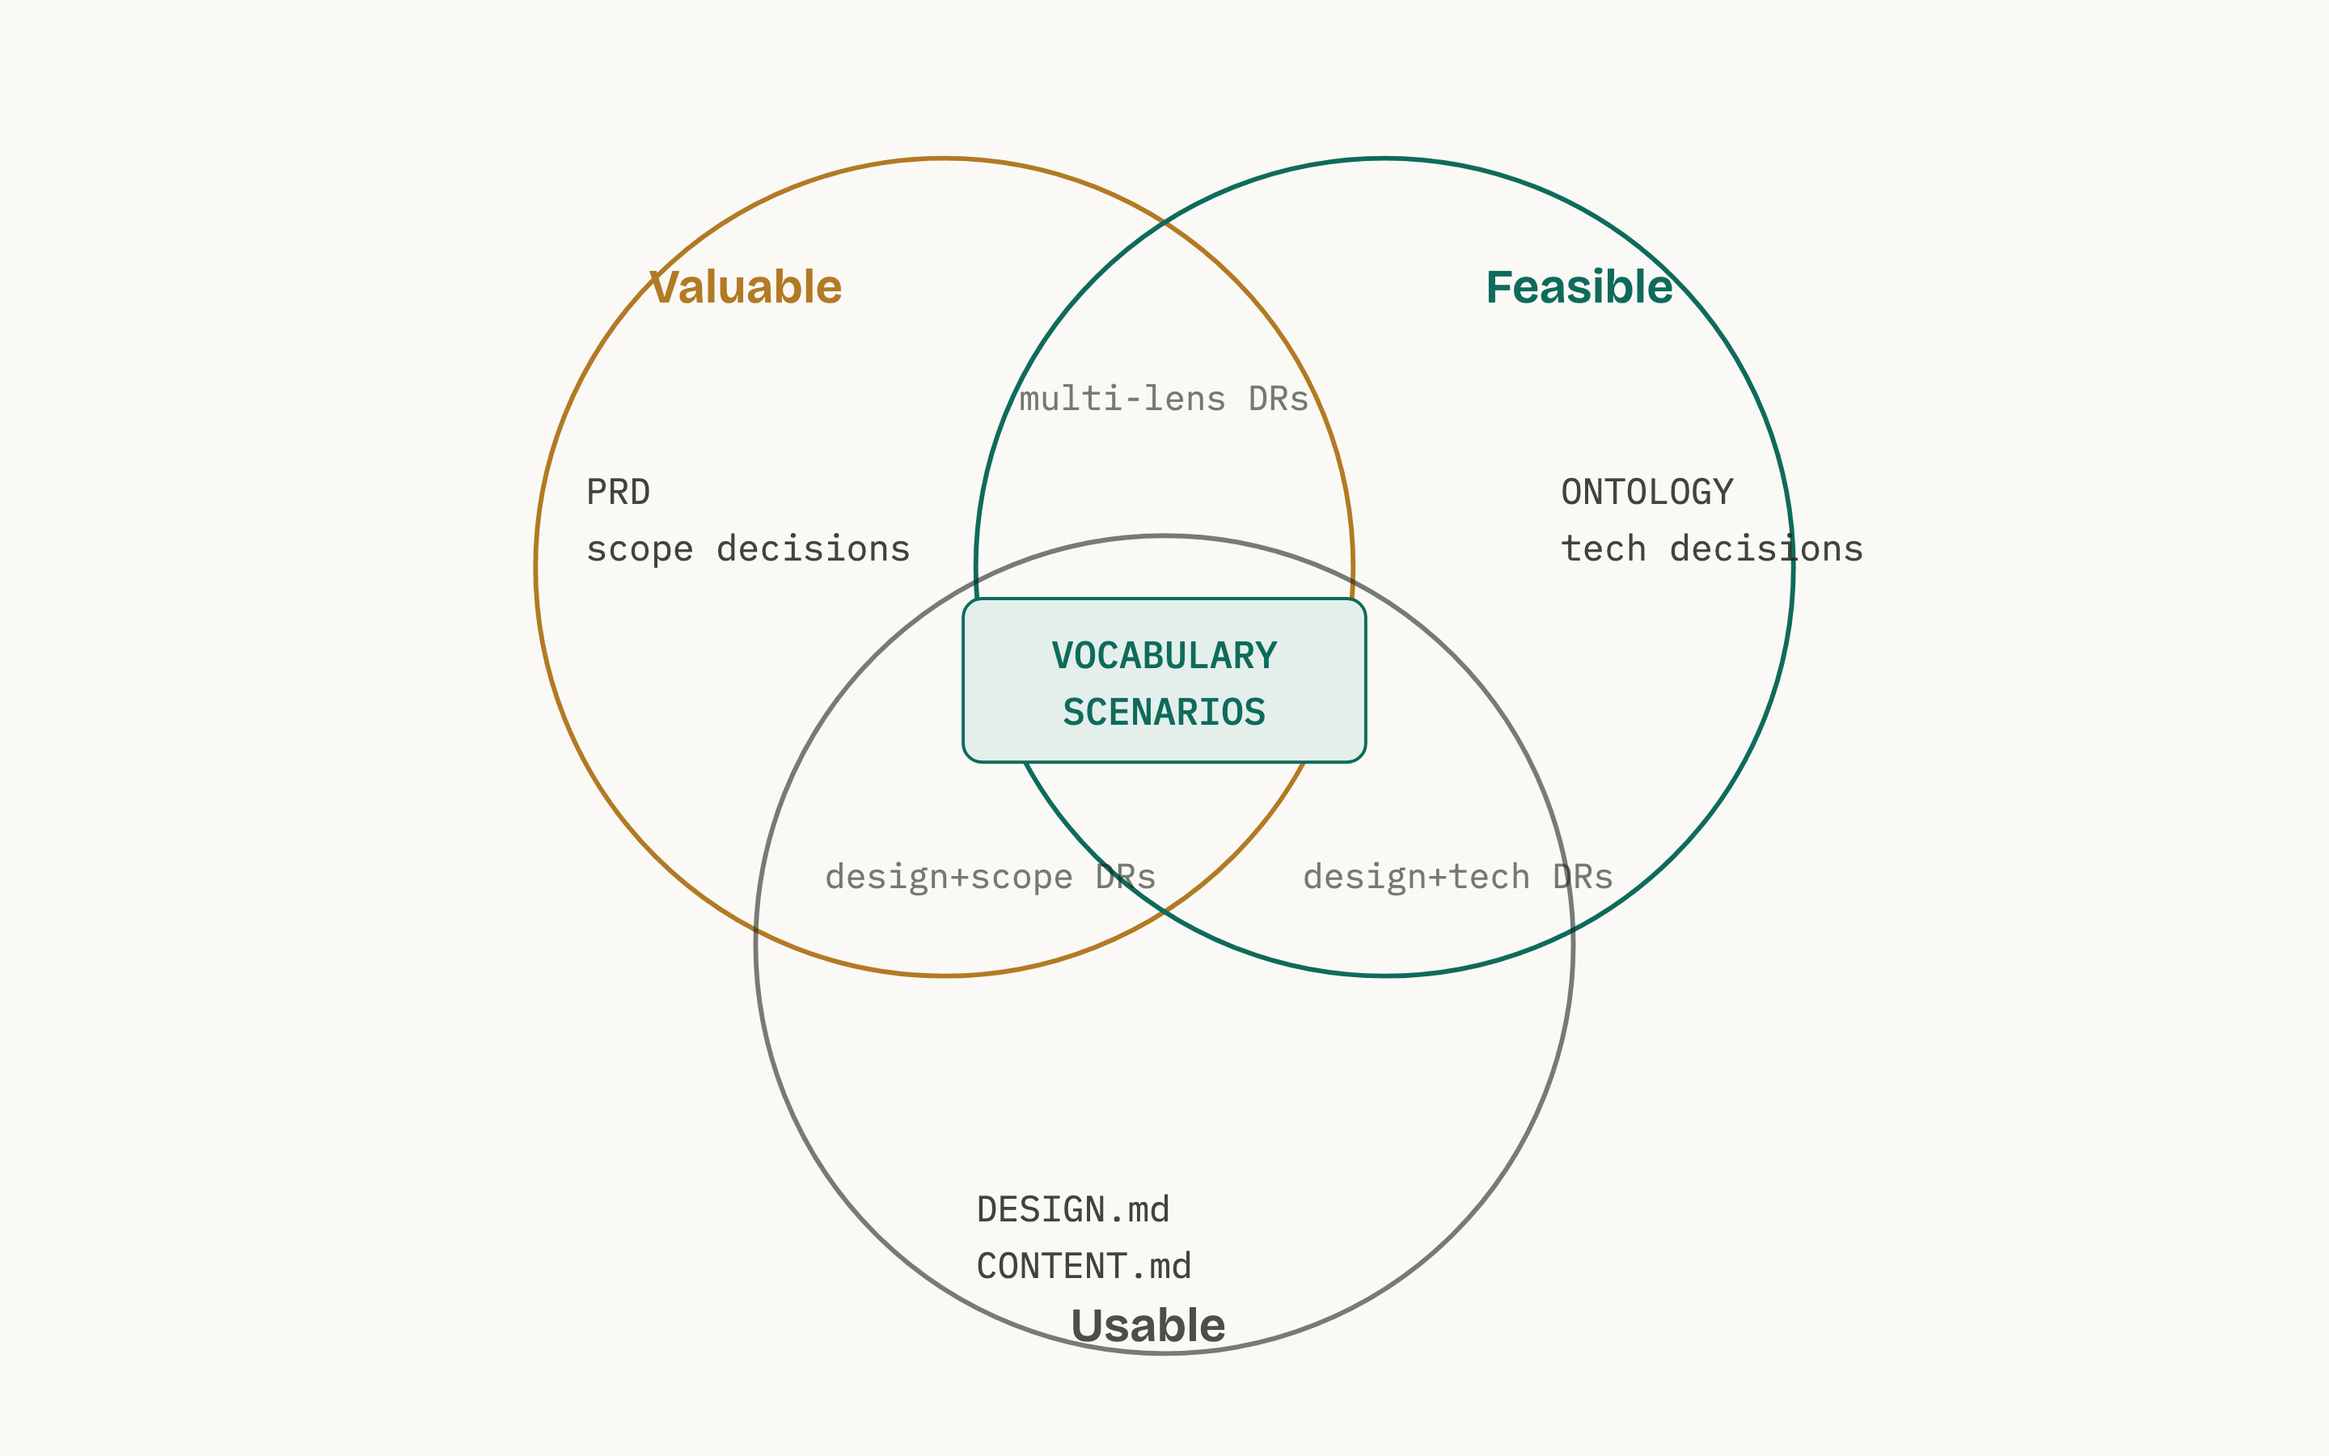
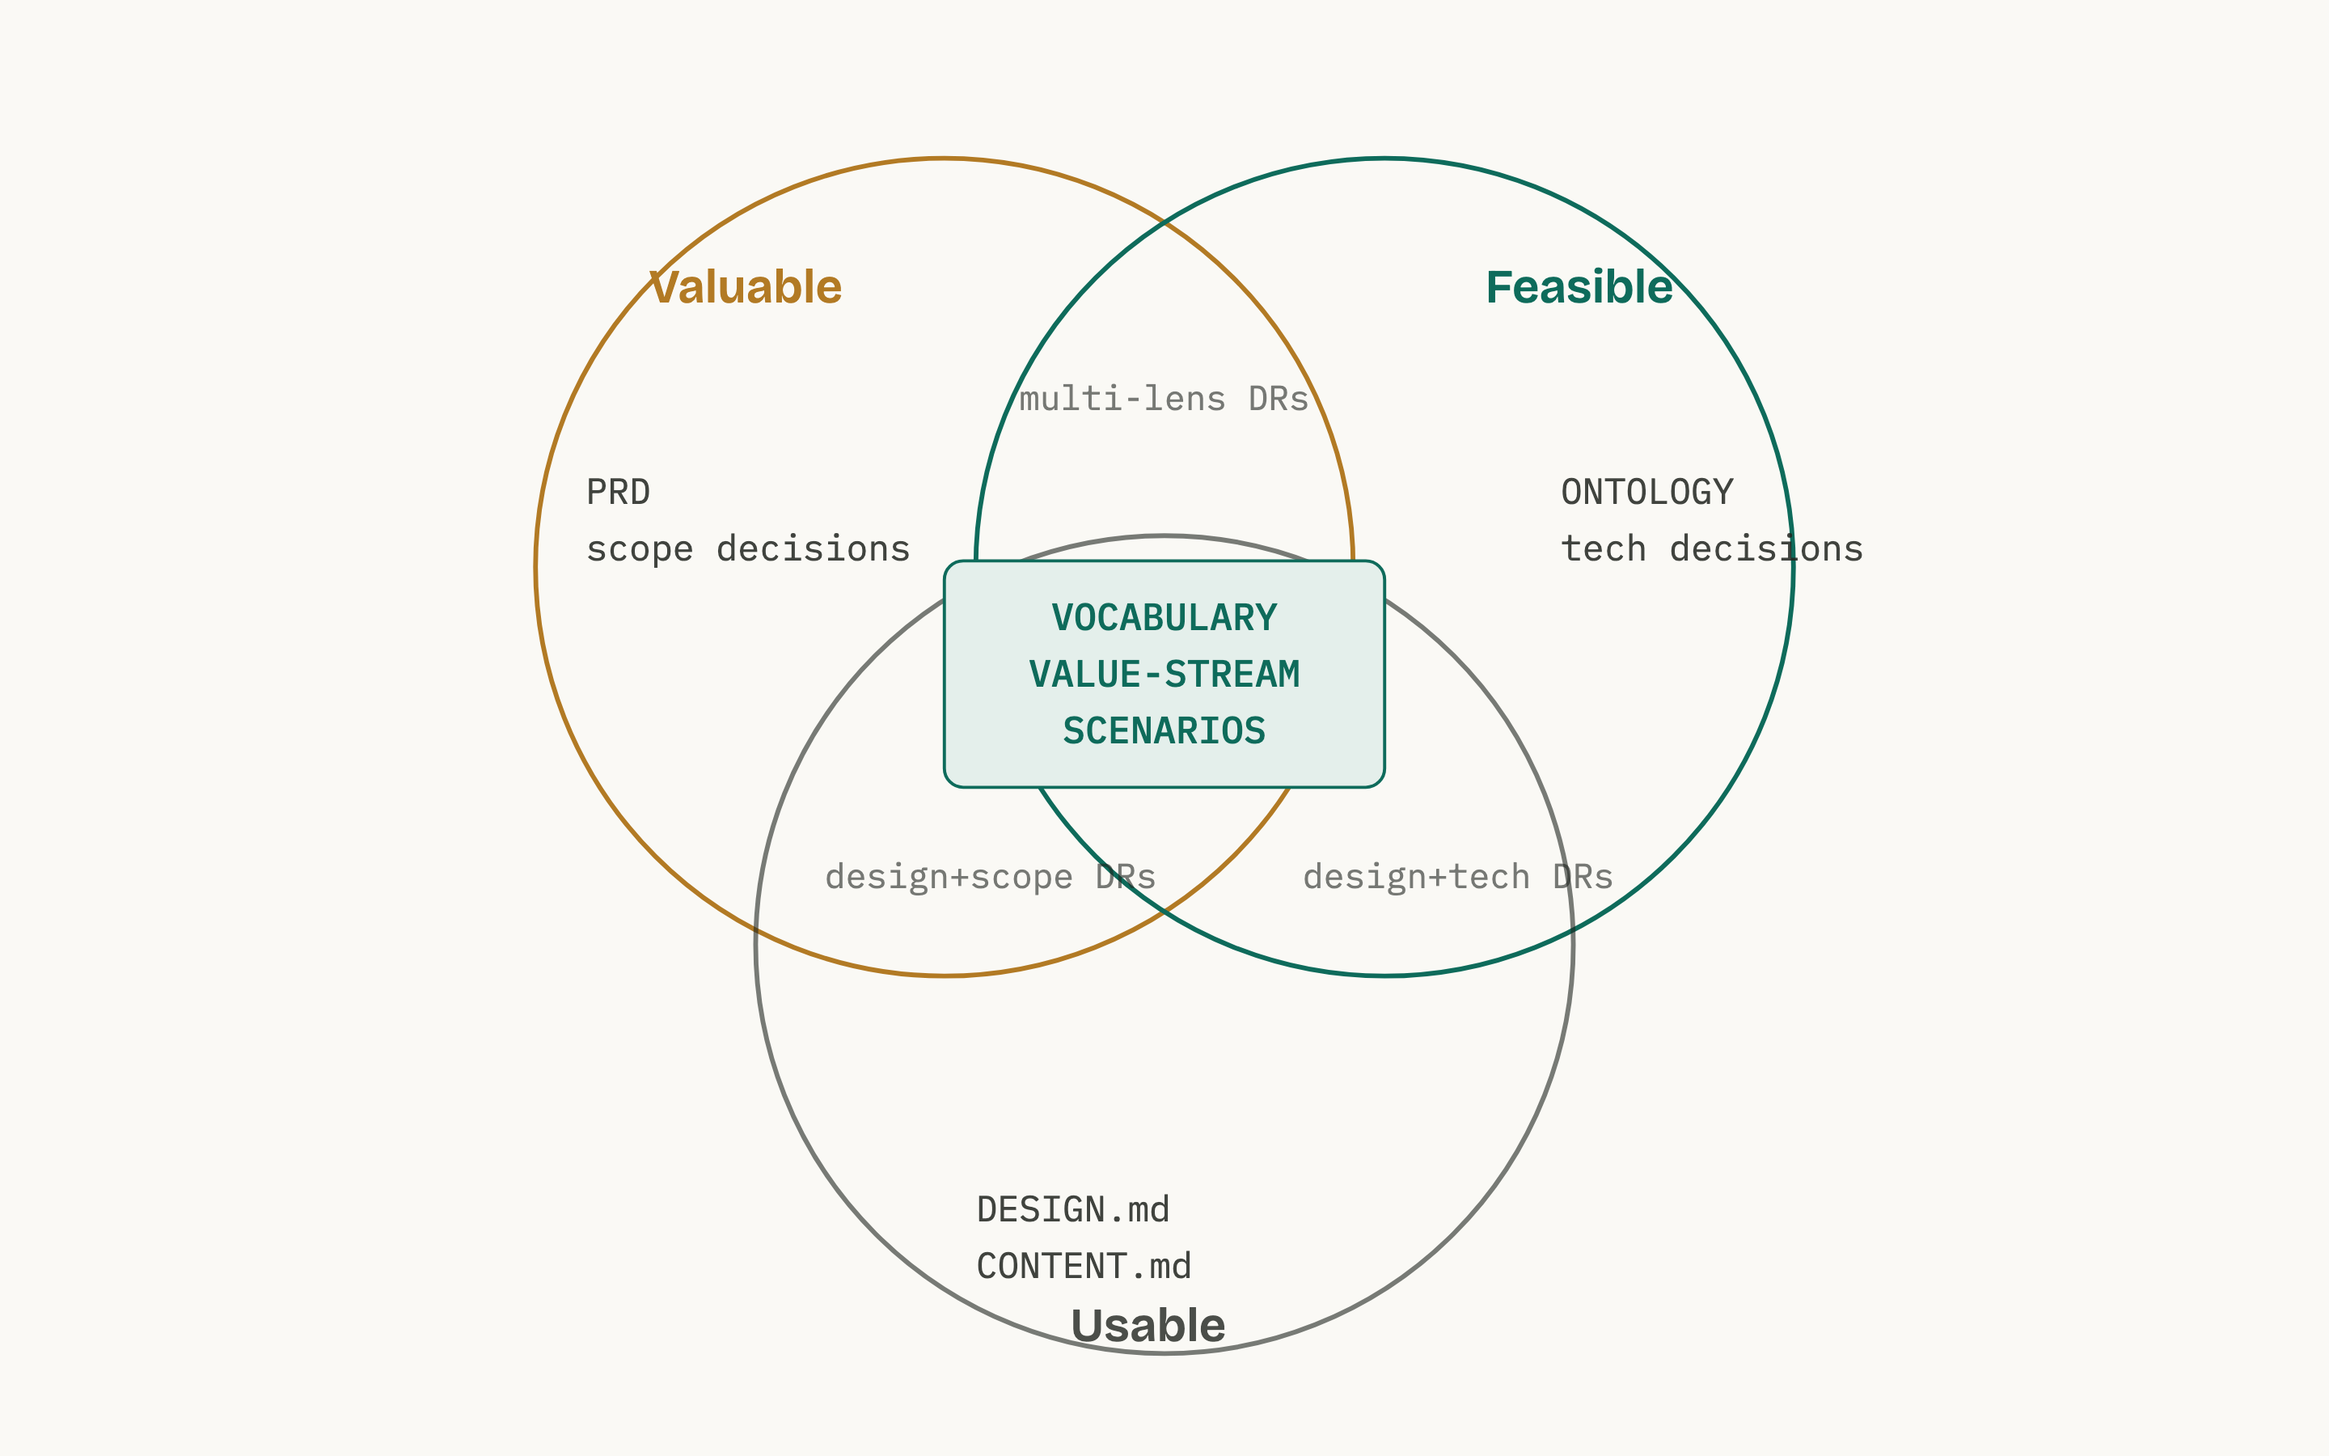
Add value stream as eighth layer; move role section to end
- New section: the value stream as the spine between ontology and
  scenarios — thinnest form is ordered stages with actor, entry/exit
  as ontology states, and anchoring scenario IDs
- Precedence chain and layer table updated to include VALUE-STREAM
- Role breakdown moved from intro to final section, with value stream
  added for product and business owner / domain expert
- Fig 1 regenerated with the value-stream step; Fig 2 center now
  holds vocabulary, value stream, and scenarios

Changed region(s): [[0.4062, 0.3733, 0.5938, 0.56]]

diff --git a/wiki/Home.md b/wiki/Home.md
@@ -1,24 +1,16 @@
 # The Spec Ladder
 
-**Problem: Source of truth confusion** kills team momentum which kills confidence, the remediations often more drift in debt beyond the codebase, in design, in specs, in PRDs, etc.
+**Problem: Source of truth confusion** kills team momentum which kills confidence, the remediations often cause more drift in debt beyond the codebase, in design, in specs, in PRDs, etc.
 
 Coding agents are literal, and tireless, which means they amplify whatever we feed them. Feed them a crisp contract and they produce what we meant. Feed them multiple overlapping documents and they invent the gaps.
 
 **Proposal: one `spec/` folder, layered by kind of truth** so coding agents build without guessing, and every team member can read, correct, and steer without touching code.
 
-**Our PRDs spawn** Designs, stories, Slack threads. Each a partial copy of the same feature, each drifting from the others. After a while nobody can say which one is authoritative, so the agent picks one, implements it. And if incorrect, we often spent days till the drift is uncovered and hours debating which source is the right one.
+**Root cause: PRDs spawn** Designs, Stories, test Cases Slack threads. Each a partial copy of the same feature, each drifting from the others. After a while nobody can say which one is authoritative, so the agent picks one, implements it. And if incorrect, we often spent days till the drift is uncovered and hours debating which source is the right one.
 
-**The change.** One document per kind of truth. Seven layers, each added only when its specific pain shows up. A new major use case, component or feature, starts with three of them. Conventions, Vocabulary, and Scenarios; roughly three pages.
+**The change.** One document per kind of truth. Eight layers, each added only when its specific pain shows up. A new major use case, component or feature, starts with three of them. Conventions, Vocabulary, and Scenarios; roughly three pages.
 
-**What's different for you.** Four of the seven layers are plain language and yours to edit. No design file, no dev ticket, no code.
-
-| You are | You edit directly | What it buys you |
-| :---- | :---- | :---- |
-| **Product** | `SCENARIOS.md` · `decisions/` | Scope debates end in a decision record, not a thread |
-| **Marketing / support** | `CONTENT.md` | Every user-facing string is a keyed line you change yourself |
-| **Design** | `DESIGN.md` | You absorb small deltas on your cadence; new patterns still route to you first |
-| **Domain expert** | `SCENARIOS.md` · `VOCABULARY.md` | Reading a journey and saying "that's not how it works" is our highest-leverage correction |
-| **Dev / tech lead** | `ONTOLOGY.md` · `spec/CLAUDE.md` | Schema and tests generate from the spec; behavior changes without spec changes bounce |
+**What's different for you.** Five of the eight layers are plain language and yours to edit — no design file, no dev ticket, no code. The by-role breakdown is at the [end of this page](#what-this-might-change-for-you).
 
 ---
 
@@ -34,7 +26,7 @@ The fix: split truth by *kind*, give each kind a home that stays load-bearing af
 
 Read bottom-up. Each layer arrives when its trigger fires, never on principle. Every layer costs maintenance, and a stale spec is worse than no spec.
 
-![The spec ladder — seven layers, each with the trigger that adds it](fig1-spec-ladder.png)
+![The spec ladder — eight layers, each with the trigger that adds it](fig1-spec-ladder.png)
 
 *Teal = machine-checkable contract · Amber = human steering · Outline = always-on base*
 
@@ -46,6 +38,7 @@ Read bottom-up. Each layer arrives when its trigger fires, never on principle. E
 | :---- | :---- | :---- |
 | `VOCABULARY` | Deterministic naming — no synonym guessing | Your own domain words back, at near-zero reading cost |
 | `ONTOLOGY` | A generative source for schema, types, validators | A picture of what exists, correctable without reading code |
+| `VALUE-STREAM` | Sequencing context — the state of the world before and after what it's building, and which handoffs are deliberately human | The end-to-end map of how value moves, on one page |
 | `SCENARIOS` | Concrete acceptance targets to verify against | Plain-language stories anyone can veto |
 | `decisions/` | Knowledge of where to hold firm and where to explore | Visibility into what's settled, without asking anyone |
 | `PRD` | A tiebreaker for intent | The strategic conversation, minus the definitions |
@@ -55,13 +48,31 @@ Read bottom-up. Each layer arrives when its trigger fires, never on principle. E
 
 Insert note: on how certain projects will favor heavy reliance on story/issue detail but that is team dependent. Many people get lost in the web of stories. And stories start to overlap and duplicate quickly, the larger the team the bigger the maintenance becomes
 
+## The value stream: the spine between ontology and scenarios
+
+One step, one question no other layer holds: **in what order does value move through the domain, and who moves it?** For us: intake → consent → program authored → published → athlete training → outcomes.
+
+**The thinnest form is an ordered list of stages, three facts per stage.** An actor. Entry and exit conditions written as ontology states, never prose. The scenario IDs that anchor the stage. Roughly fifteen lines per slice.
+
+That thinness is possible because only three things are net new here — everything else already has a home:
+
+1. **Cross-entity order.** The ontology gives each entity its own state machine; the stream composes them end to end. No entity owns the sequence.
+2. **The actor at each handoff.** No entity owns "a human does this step by hand." The stream does — our concierge intake stage points at DR-041 and inherits its expiry. The stream shows *where* the deliberate waste sits; the decision record says *why and until when*.
+3. **Scenario completeness.** Scenarios zoom in on stages and transitions. A stage or handoff with no anchoring scenario becomes a visible gap instead of a silent one — and the stream is what tells us which journeys count as primary in the first place.
+
+What stays out keeps it thin. Observed metrics — cycle times, wait times, waste percentages — belong on dashboards, not in spec; a stream quoting last month's numbers is stale by next month, and a stale spec teaches everyone the folder lies. Targets go in the PRD. Per-entity states stay in the ontology. Journey detail stays in scenarios.
+
+One binding rule makes it checkable instead of a wall poster: **entry and exit conditions must be ontology states.** An agent can then verify every stage boundary is reachable, no state is orphaned outside the stream, and stage order agrees with the legal transitions.
+
+Trigger to add it: scenarios accumulate but nobody can say how they compose end to end; "what happens between X and Y" keeps recurring; or a human handoff is invisible to the people and agents building around it.
+
 ## Three concerns, one shared center
 
-Every argument we have reduces to three questions: is it *valuable*, is it *feasible*, is it *usable*. The layers sort themselves onto that map. Two artifacts sit dead center, read and written by all three concerns.
+Every argument we have reduces to three questions: is it *valuable*, is it *feasible*, is it *usable*. The layers sort themselves onto that map. Three artifacts sit dead center, read and written by all three concerns.
 
-![Valuable, Feasible, Usable — with Vocabulary and Scenarios at the shared center](fig2-venn.png)
+![Valuable, Feasible, Usable — with Vocabulary, Value stream, and Scenarios at the shared center](fig2-venn.png)
 
-Shared language and journey stories are the only artifacts all three concerns touch — the first layers we add, the last we'd cut. The pairwise edges hold the decision records with multiple lenses: the contested ones.
+Shared language and journey stories are the first layers we add and the last we'd cut. The value stream joins them at the center once its trigger fires — product reads it for what value flows, devs for the states that bound each stage, design for the journey users actually travel. The pairwise edges hold the decision records with multiple lenses: the contested ones.
 
 ## Decisions: firm ground vs. open ground
 
@@ -83,30 +94,12 @@ Figma or another prototype is a **pinned baseline**, not live truth. We referenc
 
 Every string in the product carries a key (`data.consent.body`), a status, and an owner. Figma text layers are samples, and agents are forbidden from transcribing them. When deltas pile up on a frame, the designer absorbs them into Figma on their own cadence and we re-pin. The loop closes without ever blocking on it.
 
-## What this might change for you
-
-By role, if we adopt it:
-
-**Design** — You own layout, components, interaction, and length constraints. You don't own copy. Small changes accumulate as deltas you absorb on your schedule; genuinely new patterns still come to you first. → `spec/training/DESIGN.md`
-
-**Marketing** — You own every user-facing string as a keyed line you edit directly. No design file, no dev ticket for wording. Legal-locked keys are marked. → `spec/training/CONTENT.md`
-
-**Product** — You own the thin PRD, the scenarios, and most decision records, including promotion from exploring to firm. Scope debates end in a DR, not a thread. → `SCENARIOS.md` · `decisions/`
-
-**Devs** — You generate schema, types, and model tests from the ontology. Plans cite scenario IDs and get deleted afterward. When the spec is silent, ask — then write the answer back. → `ONTOLOGY.md` · `spec/CLAUDE.md`
-
-**Tech lead** — You guard the precedence chain and the same-commit rule: behavior changes without spec changes bounce in review. You decide when a slice earns its next layer. → `spec/CLAUDE.md`
-
-**Domain experts** — You read scenarios written in your vocabulary and say "that's not how it works." That's the highest-leverage steering available to anyone here. → `SCENARIOS.md` · `VOCABULARY.md`
-
-**Customer support** — You get precise bug language from scenario IDs: "SC-014 doesn't hold — I got a duplicate workout" routes itself. You'll also spot missing scenarios before anyone else. → `SCENARIOS.md`
-
 ## Ground rules, on one hand
 
 When artifacts disagree, earlier wins:
 
 ```
-contracts (VOCABULARY → ONTOLOGY → TAXONOMY → SCENARIOS)
+contracts (VOCABULARY → ONTOLOGY → TAXONOMY → VALUE-STREAM → SCENARIOS)
   → firm decisions
   → surfaces (CONTENT → DESIGN)
   → PRD → plans → code
@@ -123,3 +116,31 @@ Five rules:
 5. **Same-commit.** A behavior change without its spec change is drift, and it bounces.
 
 Questions, objections, and "that scenario is wrong" are the point. Cheap steering is what we're after.
+
+## What this might change for you
+
+Five of the eight layers are plain language and yours to edit — no design file, no dev ticket, no code.
+
+| You are | You edit directly | What it buys you |
+| :---- | :---- | :---- |
+| **Product** | `SCENARIOS.md` · `decisions/` · `VALUE-STREAM.md` | Scope debates end in a decision record, not a thread |
+| **Business owner / domain expert** | `SCENARIOS.md` · `VOCABULARY.md` · `VALUE-STREAM.md` | "That's not how it works" — and "there's a whole stage missing" — are our highest-leverage corrections |
+| **Marketing / support** | `CONTENT.md` | Every user-facing string is a keyed line you change yourself |
+| **Design** | `DESIGN.md` | You absorb small deltas on your cadence; new patterns still route to you first |
+| **Dev / tech lead** | `ONTOLOGY.md` · `spec/CLAUDE.md` | Schema and tests generate from the spec; behavior changes without spec changes bounce |
+
+By role, if we adopt it:
+
+**Design** — You own layout, components, interaction, and length constraints. You don't own copy. Small changes accumulate as deltas you absorb on your schedule; genuinely new patterns still come to you first. → `spec/training/DESIGN.md`
+
+**Marketing** — You own every user-facing string as a keyed line you edit directly. No design file, no dev ticket for wording. Legal-locked keys are marked. → `spec/training/CONTENT.md`
+
+**Product** — You own the thin PRD, the scenarios, the value stream, and most decision records, including promotion from exploring to firm. Scope debates end in a DR, not a thread. → `SCENARIOS.md` · `decisions/` · `VALUE-STREAM.md`
+
+**Devs** — You generate schema, types, and model tests from the ontology. Plans cite scenario IDs and get deleted afterward. When the spec is silent, ask — then write the answer back. → `ONTOLOGY.md` · `spec/CLAUDE.md`
+
+**Tech lead** — You guard the precedence chain and the same-commit rule: behavior changes without spec changes bounce in review. You decide when a slice earns its next layer. → `spec/CLAUDE.md`
+
+**Business owners / domain experts** — You read scenarios written in your vocabulary and say "that's not how it works." The value stream gives you the second lever: reading the end-to-end map and saying "there's a whole stage missing between authoring and publishing" — a structural correction no single scenario surfaces. → `SCENARIOS.md` · `VOCABULARY.md` · `VALUE-STREAM.md`
+
+**Customer support** — You get precise bug language from scenario IDs: "SC-014 doesn't hold — I got a duplicate workout" routes itself. The value stream also tells you which stage a complaint lives in. You'll spot missing scenarios before anyone else. → `SCENARIOS.md`
